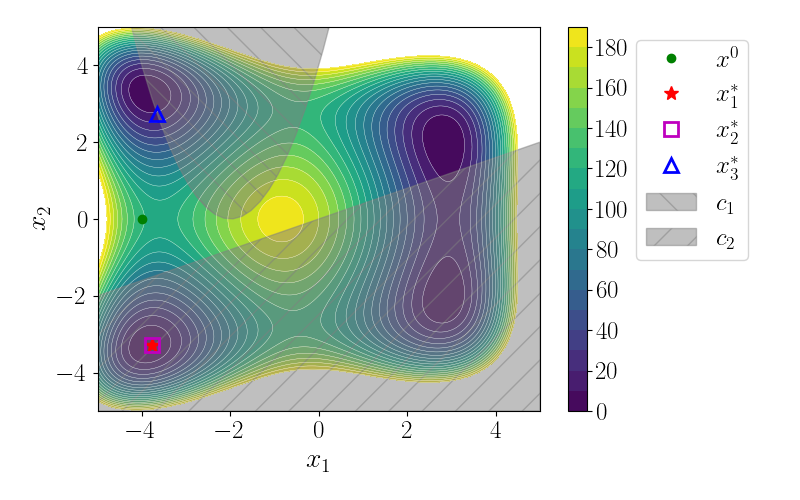
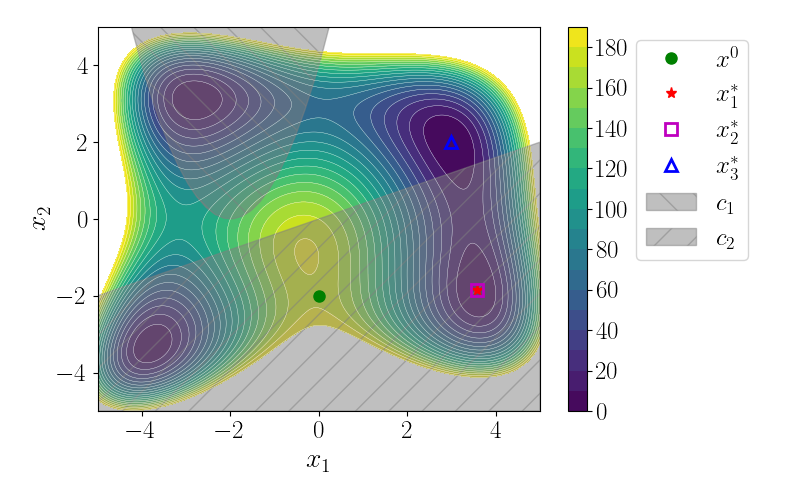
Fixed small error in the definition of the contour function

diff --git a/mtaho/w01/himmelbau.py b/mtaho/w01/himmelbau.py
@@ -15,12 +15,12 @@ from mtaho.src.BasicOpt import Opt
 workDir = f"{projectDir}/mtaho/w01"
 
 def contourFunHimmelblau(X, Y):
-    tmp1 = X**2 + X - 11
+    tmp1 = X**2 + Y - 11
     tmp2 = X + Y**2 - 7
     f = tmp1**2 + tmp2**2
     return f
 
-x0 = np.array([-4, 0])
+x0 = np.array([0, -2])
 xLower = [-5, -5]
 xUpper = [5, 5]
 bounds = Bounds(xLower, xUpper)
@@ -72,29 +72,31 @@ res3 = minimize(objFunGradHimmelblau, x0, jac=True,
 
 
 # Plot solutions
+xlim = [-5, 5]
+ylim = [-5, 5]
 fig, ax = Opt.contourPlot(contourFunHimmelblau,
-                          xlim=[-5, 5], ylim=[-5, 5], vmax=200,
+                          xlim=xlim, ylim=ylim, vmax=200,
                           colorScale='linear', figSize=(8, 5))
-
-ax.plot(x0[0], x0[1], 'go', label='$x^0$')
-ax.plot(res1.x[0], res1.x[1], 'r*', label=r'$x^\ast_1$', markersize=10)
-ax.plot(res2.x[0], res2.x[1], 'ms', markerfacecolor='none', markersize=10, 
+ms = 8
+ax.plot(x0[0], x0[1], 'go', label='$x^0$', markersize=ms)
+ax.plot(res1.x[0], res1.x[1], 'r*', label=r'$x^\ast_1$', markersize=ms)
+ax.plot(res2.x[0], res2.x[1], 'ms', markerfacecolor='none', markersize=ms, 
         label=r'$x^\ast_2$', markeredgewidth=2)
-ax.plot(res3.x[0], res3.x[1], 'b^', markerfacecolor='none', markersize=10, 
+ax.plot(res3.x[0], res3.x[1], 'b^', markerfacecolor='none', markersize=ms, 
         label=r'$x^\ast_3$', markeredgewidth=2)
 
 # Draw constraints
-xc = np.linspace(-5, 5)
+xc = np.linspace(xlim[0], xlim[1])
 alpha = 0.5
 yc1 = (xc+2)**2
 yc2 = (4*xc)/10
-ax.fill(xc, yc1, "c", color='grey', alpha=alpha, label='$c_1$',
+ax.fill(xc, yc1, color='grey', alpha=alpha, label='$c_1$',
         hatch='\\') 
 ax.fill_between(xc, yc2, np.repeat(-5, 50), color='grey', alpha=alpha, label='$c_2$',
                 hatch='/') 
 
-ax.set_xlim([-5, 5])
-ax.set_ylim([-5, 5])
+ax.set_xlim(xlim)
+ax.set_ylim(xlim)
 
 ax.legend(bbox_to_anchor=(1.5, 1))
 fig.tight_layout()
